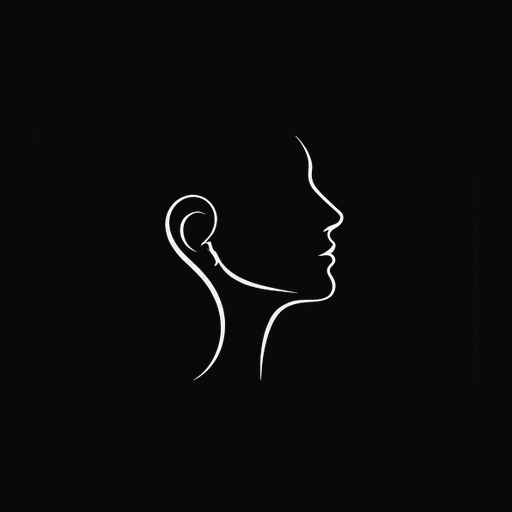
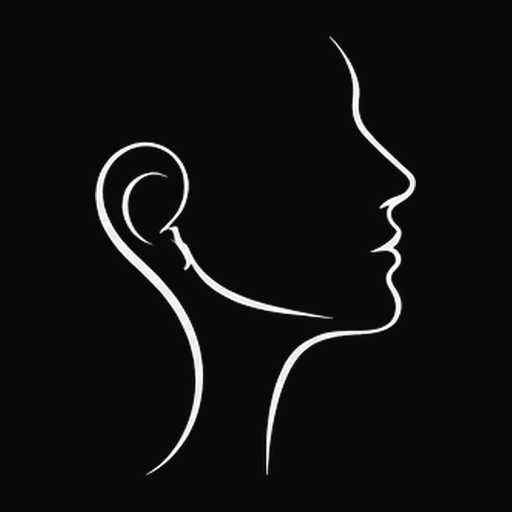
Το εικονίδιο του λογοτύπου μπαίνει στο navbar δίπλα στο όνομα
Στα ~40px οι αρχικές τρίχινες γραμμές πέφτουν κάτω από ένα pixel συσκευής
και γκριζάρουν, οπότε το prepare-logo.py παράγει ξεχωριστή εκδοχή για
μικρά μεγέθη: κομμένη στο ίδιο το σχέδιο και με ελαφρώς παχύτερες
γραμμές. Το πλήρες mark μένει ανέπαφο για τις μεγάλες χρήσεις.

Στην πορεία διορθώθηκε και το favicon. Το Image.getbbox() επέστρεφε πάντα
ολόκληρο το καρέ, επειδή το luminance key αφήνει ελάχιστα αδέσποτα pixel
στις άκρες, οπότε το εικονίδιο κρατούσε τα περιθώρια του lockup και το
πρόσωπο έβγαινε μικρό. Το νέο tight_box αγνοεί ό,τι είναι κάτω από ένα
κατώφλι και βρίσκει το πραγματικό σχέδιο.

diff --git a/components/site-header.tsx b/components/site-header.tsx
@@ -1,10 +1,11 @@
 "use client";
 
+import Image from "next/image";
 import Link from "next/link";
 import { useState } from "react";
 import { motion, useMotionValueEvent, useScroll } from "motion/react";
 import { List, X } from "@phosphor-icons/react";
-import { contact, doctor } from "@/lib/content";
+import { brand, contact, doctor } from "@/lib/content";
 
 const nav = [
   { label: "Η ιατρός", href: "#iatros" },
@@ -33,9 +34,20 @@ export default function SiteHeader() {
         <Link
           href="/"
           aria-label={doctor.fullName}
-          className="text-[15px] leading-none font-light tracking-[0.3em] text-bone uppercase"
+          className="flex items-center gap-2.5 sm:gap-3.5"
         >
-          {doctor.name}
+          <Image
+            src={brand.markSmall}
+            alt=""
+            aria-hidden
+            width={234}
+            height={320}
+            priority
+            className="h-[34px] w-auto sm:h-[40px]"
+          />
+          <span className="text-[12.5px] leading-none font-light tracking-[0.24em] text-bone uppercase sm:text-[15px] sm:tracking-[0.3em]">
+            {doctor.name}
+          </span>
         </Link>
 
         <nav className="hidden items-center gap-8 lg:flex">

diff --git a/lib/content.ts b/lib/content.ts
@@ -176,6 +176,8 @@ export const brand = {
   /** Chosen from the client's six-concept sheet: white line art on dark. */
   lockup: "/brand/logo-lockup.png",
   mark: "/brand/logo-mark.png",
+  /** Thicker strokes, cropped to the head. For anything under ~48px. */
+  markSmall: "/brand/logo-mark-sm.png",
 } as const;
 
 /**

diff --git a/tools/prepare-logo.py b/tools/prepare-logo.py
@@ -15,7 +15,7 @@ edge, which a threshold or a colour key would destroy.
 from pathlib import Path
 
 import numpy as np
-from PIL import Image
+from PIL import Image, ImageFilter
 
 ROOT = Path(__file__).resolve().parent.parent
 SHEET = ROOT / "tools" / "logo-source-sheet.jpg"
@@ -49,6 +49,21 @@ def key_out_ground(img: Image.Image) -> Image.Image:
     return Image.fromarray(rgba)
 
 
+def tight_box(img: Image.Image, threshold: int = 25) -> tuple[int, int, int, int]:
+    """
+    Bounding box of the real line work.
+
+    `Image.getbbox()` is useless here: the luminance key leaves a handful of
+    near-zero stray pixels out at the tile edges, so it always returns the full
+    frame. Ignoring everything under a threshold finds the actual artwork.
+    """
+    a = np.asarray(img.split()[3])
+    ys, xs = np.nonzero(a > threshold)
+    if not len(xs):
+        return (0, 0, img.width, img.height)
+    return (int(xs.min()), int(ys.min()), int(xs.max()) + 1, int(ys.max()) + 1)
+
+
 def trim(img: Image.Image, pad: int = 8) -> Image.Image:
     box = img.split()[3].getbbox()
     if not box:
@@ -76,9 +91,21 @@ def main() -> None:
     lockup.save(OUT / "logo-lockup.png")
     mark.save(OUT / "logo-mark.png")
 
-    # The favicon crops to the head so the profile fills the box. The mark is
-    # hairline work and disappears at 32px if it keeps the lockup's margins.
-    face = mark.crop(mark.split()[3].getbbox())
+    # Cropped to the artwork itself, the profile is portrait rather than the
+    # landscape frame the lockup gives it. Everything small is built from this.
+    face = mark.crop(tight_box(mark))
+
+    # A navbar-sized cut. At roughly 40px the original hairlines fall below a
+    # device pixel and grey out, so the strokes are thickened just enough to
+    # survive. Used only at small sizes; the full mark stays untouched.
+    thick = Image.merge(
+        "RGBA", (*face.split()[:3], face.split()[3].filter(ImageFilter.MaxFilter(3)))
+    )
+    sm_h = 320
+    thick.resize(
+        (max(round(face.width * sm_h / face.height), 1), sm_h), Image.LANCZOS
+    ).save(OUT / "logo-mark-sm.png")
+
     inner = round(512 * 0.86)
     scale = inner / max(face.width, face.height)
     face = face.resize(
